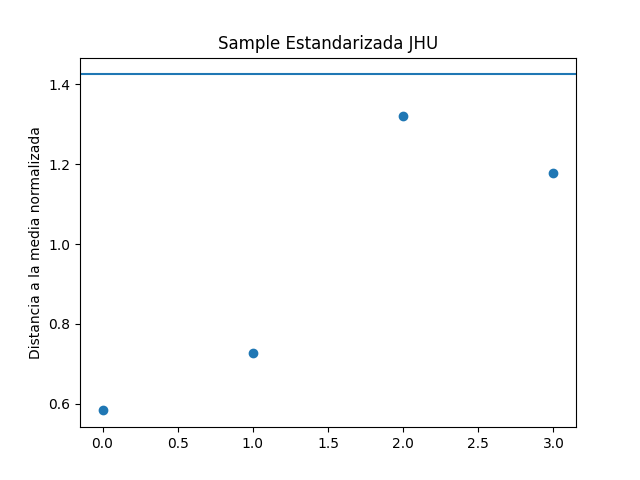
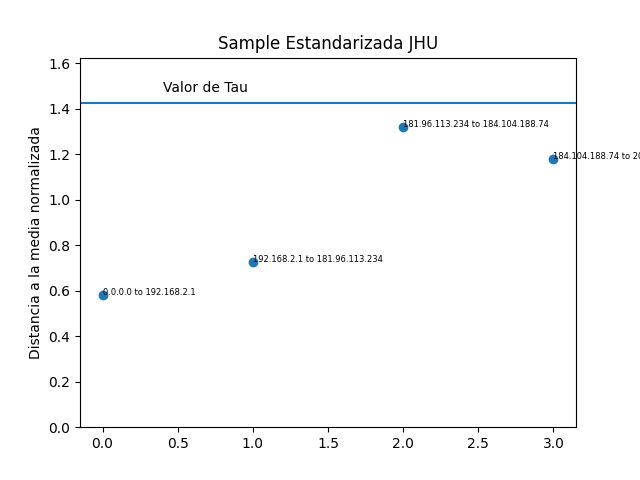
Imagenes

diff --git a/TP2/outliers.py b/TP2/outliers.py
@@ -18,11 +18,18 @@ def tau(n):
     return tau
 
 
-def graph_standardized(sample,filename,title):
+def graph_standardized(rtt_between_jumps,filename,title):
+    names = [f"{jump[2]} to {jump[3]}" for jump in rtt_between_jumps]
+    sample = [jump[4] for jump in rtt_between_jumps]
     xs = list(range(len(sample)))
     mean_val = mean(sample)
     std_val = std(sample)
     ys = [abs(x - mean_val)/std_val for x in sample]
+    ylim = max(tau(len(sample)) + 0.2,max(ys) + 0.2)
+    plt.ylim((0,ylim))
+    for i in range(len(names)):
+        plt.annotate(names[i],(xs[i],ys[i]),fontsize=6)
+    plt.annotate("Valor de Tau",(0.4,tau(len(sample)) + 0.05))
     plt.scatter(xs,ys)
     plt.ylabel("Distancia a la media normalizada")
     plt.axhline(y=tau(len(sample)),linestyle='-')
@@ -53,26 +60,26 @@ if __name__ == "__main__":
     outliers = find_outliers([jump[4] for jump in rtt_between_jumps])
     outlier_jumps = [rtt_between_jumps[i] for i in outliers]
     write_object_to_file(outlier_jumps,"data/cambridge_outliers.txt")
-    graph_standardized([jump[4] for jump in rtt_between_jumps],"data/standardized_cambridge","Sample Estandarizada Cambridge")
+    graph_standardized(rtt_between_jumps,"data/standardized_cambridge","Sample Estandarizada Cambridge")
 
 
     rtt_between_jumps = read_object_from_file("/home/fcirelli/Documents/UBA/Redes/TPs/TP2/rtt_between_jumps_jhu.edu.txt")
     outliers = find_outliers([jump[4] for jump in rtt_between_jumps])
     outlier_jumps = [rtt_between_jumps[i] for i in outliers]
     write_object_to_file(outlier_jumps,"data/jhu_outliers.txt")
-    graph_standardized([jump[4] for jump in rtt_between_jumps],"data/standardized_jhu","Sample Estandarizada JHU")
+    graph_standardized(rtt_between_jumps,"data/standardized_jhu","Sample Estandarizada JHU")
 
 
     rtt_between_jumps = read_object_from_file("/home/fcirelli/Documents/UBA/Redes/TPs/TP2/rtt_between_jumps_uj.ac.za.txt")
     outliers = find_outliers([jump[4] for jump in rtt_between_jumps])
     outlier_jumps = [rtt_between_jumps[i] for i in outliers]
     write_object_to_file(outlier_jumps,"data/johannesburg_outliers.txt")
-    graph_standardized([jump[4] for jump in rtt_between_jumps],"data/standardized_johannesburg","Sample Estandarizada Johannesburg")
+    graph_standardized(rtt_between_jumps,"data/standardized_johannesburg","Sample Estandarizada Johannesburg")
 
 
     rtt_between_jumps = read_object_from_file("/home/fcirelli/Documents/UBA/Redes/TPs/TP2/rtt_between_jumps_www.u-tokyo.ac.jp.txt")
     outliers = find_outliers([jump[4] for jump in rtt_between_jumps])
     outlier_jumps = [rtt_between_jumps[i] for i in outliers]
     write_object_to_file(outlier_jumps,"data/tokyo_outliers.txt")
-    graph_standardized([jump[4] for jump in rtt_between_jumps],"data/standardized_tokyo","Sample Estandarizada Tokyo")
+    graph_standardized(rtt_between_jumps,"data/standardized_tokyo","Sample Estandarizada Tokyo")
 
